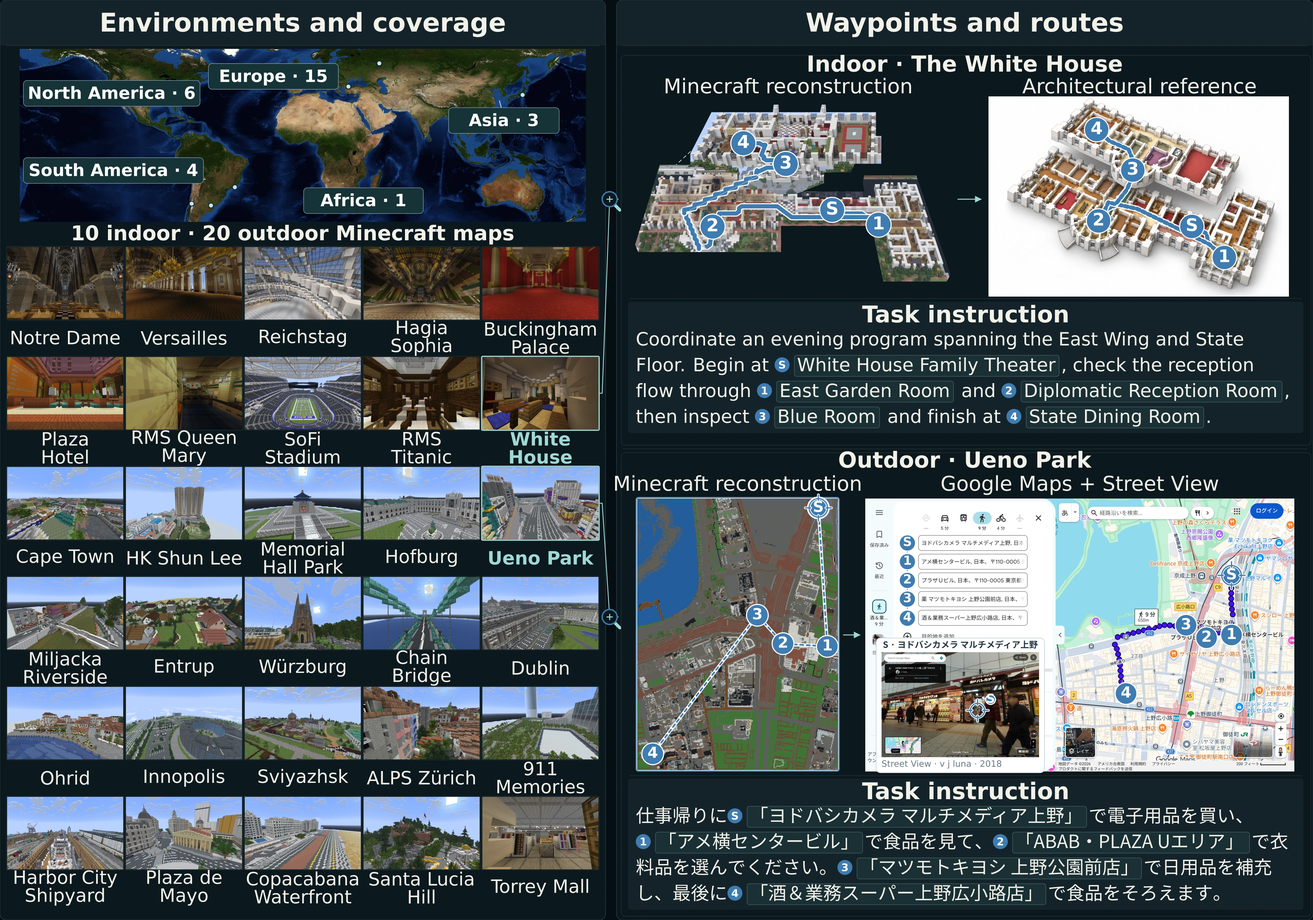
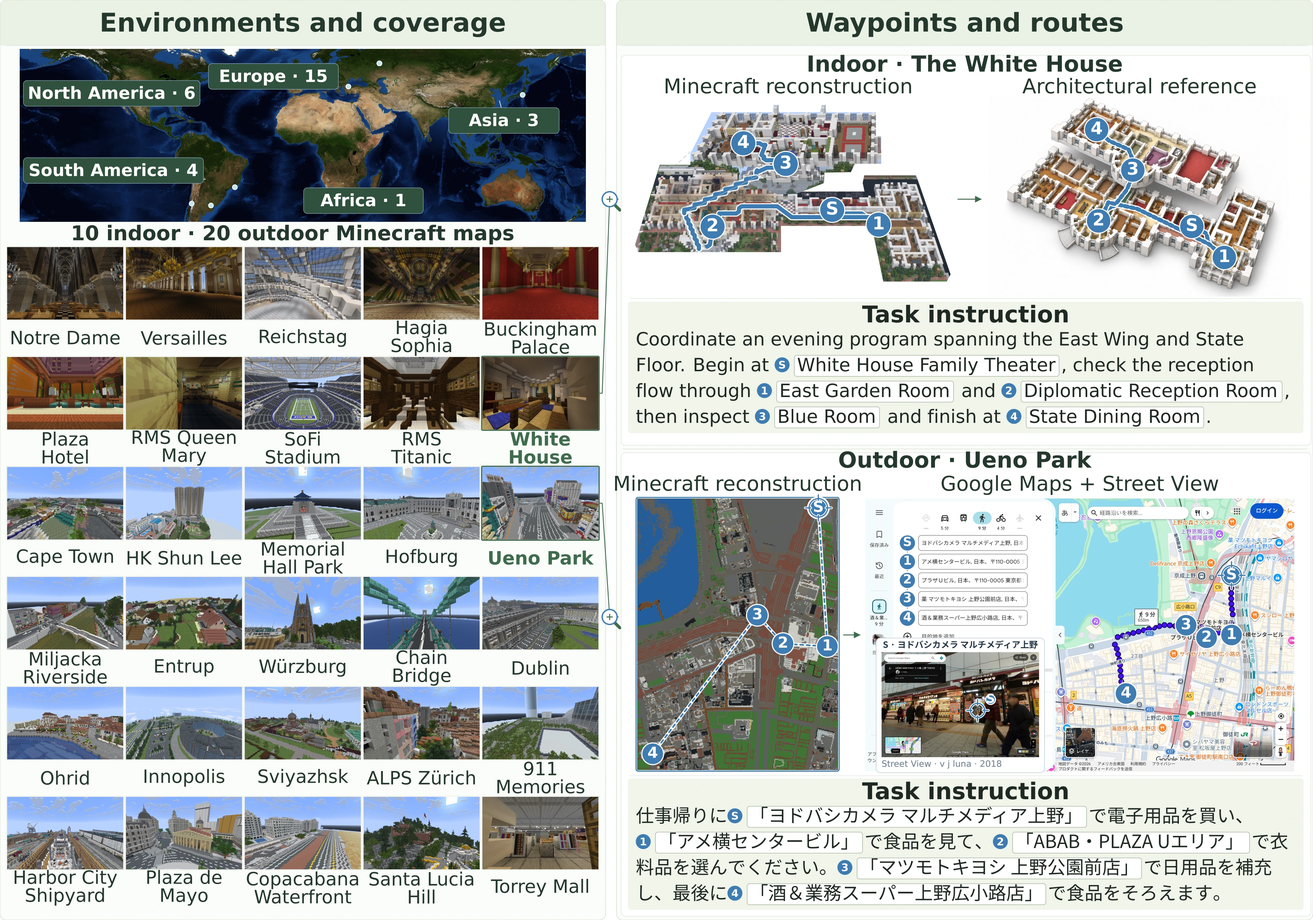
Restore white and green presentation while retaining enlarged framework

diff --git a/styles.css b/styles.css
@@ -1612,147 +1612,13 @@ body.paper-layout{--serif:var(--sans);--paper:#fbfcfa;--ink:#202923;--muted:#5e6
 .paper-layout .results-definitions>.metric-notes{margin-top:8px}
 .paper-layout .results-definitions[open]{padding-bottom:8px}
 
-/* Dark palette informed by the author's EmbodiedSWE reference. Native media keep their colors. */
-body.paper-layout.dark-layout{color-scheme:dark;--paper:#060e12;--ink:#f3f1e9;--muted:#b5c5c4;--line:#26393e;--green:#9ed9d6;--accent:#9ed9d6;--panel:#0c181d;--panel-raised:#14242a;--selected:#153337;--on-accent:#07191b;background:var(--paper);color:var(--ink)}
-.paper-layout.dark-layout ::selection{background:#2b6262;color:#fff}
-.paper-layout.dark-layout :focus-visible{outline:2px solid var(--green);outline-offset:4px}
-.paper-layout.dark-layout .site-header{background:#060e12f2;border-color:var(--line)}
-.paper-layout.dark-layout #navigation,.paper-layout.dark-layout #navigation.is-open{background:var(--paper)}
-.paper-layout.dark-layout .brand,.paper-layout.dark-layout .opening-description,.paper-layout.dark-layout .opening h1{color:var(--ink)}
-.paper-layout.dark-layout .brand-dot,.paper-layout.dark-layout .opening h1>span,.paper-layout.dark-layout .section-number,.paper-layout.dark-layout .opening .hero-heading>.eyebrow{color:var(--green)}
-.paper-layout.dark-layout .status-dot{background:var(--green);box-shadow:0 0 0 4px #9ed9d613}
-.paper-layout.dark-layout .opening-action-row:first-child>a{background:var(--panel);border-color:#385055;color:var(--ink)}
-.paper-layout.dark-layout .opening-action-row:first-child>.opening-primary{background:var(--green);border-color:var(--green);color:var(--on-accent)}
-.paper-layout.dark-layout .opening-actions .opening-action-row:last-child>a{color:var(--muted)}
-.paper-layout.dark-layout .opening-actions a:hover{color:var(--green);border-color:var(--green)}
-.paper-layout.dark-layout .opening-actions .opening-primary:hover{background:#b2e3de;color:var(--on-accent)}
-.paper-layout.dark-layout .menu-toggle,.paper-layout.dark-layout button,.paper-layout.dark-layout select{border-color:var(--line)}
-.paper-layout.dark-layout .film-player{border-color:var(--line);box-shadow:0 18px 60px #0004}
-.paper-layout.dark-layout .video-start{background:#0c181deb;border-color:#637e80;color:var(--ink)}
-.paper-layout.dark-layout .film-chapter-panel,.paper-layout.dark-layout .film-chapter-panel button,.paper-layout.dark-layout .film-note,.paper-layout.dark-layout .text-link{color:var(--muted);border-color:var(--line)}
-.paper-layout.dark-layout #film-chapters button[aria-pressed=true],.paper-layout.dark-layout #film-chapters button:hover{color:var(--green);background:var(--selected)}
-.paper-layout.dark-layout #results{--paper:#060e12;--line:#26393e;background:var(--paper);border-color:var(--line)}
-.paper-layout.dark-layout .table-scroll{background:var(--panel);border-color:var(--line)}
-.paper-layout.dark-layout #results thead{background:var(--panel-raised)}
-.paper-layout.dark-layout #results th,.paper-layout.dark-layout #results td{color:var(--ink);border-color:var(--line)}
-.paper-layout.dark-layout #results th button,.paper-layout.dark-layout #results th{color:var(--muted)}
-.paper-layout.dark-layout #results th[aria-sort=ascending] button,.paper-layout.dark-layout #results th[aria-sort=descending] button,.paper-layout.dark-layout #results .model-name{color:var(--ink)}
-.paper-layout.dark-layout #results tr.leading{background:#10272b}
-.paper-layout.dark-layout #results tbody tr:hover{background:#15292f}
-.paper-layout.dark-layout #results tr.leading .model-name,.paper-layout.dark-layout #results tr.leading .score-value{color:var(--green)}
-.paper-layout.dark-layout #results .model-effort,.paper-layout.dark-layout #results .small-note{color:var(--muted)}
-.paper-layout.dark-layout .score-bar{background:#2a4146}.paper-layout.dark-layout .score-bar i{background:#78a9a7}.paper-layout.dark-layout tr.leading .score-bar i{background:var(--green)}
-.paper-layout.dark-layout .metric-notes h3{color:var(--ink)}
-.paper-layout.dark-layout .results-definitions,.paper-layout.dark-layout .metric-notes article,.paper-layout.dark-layout .results-source{border-color:var(--line)}
-.paper-layout.dark-layout .segmented{background:var(--panel-raised);border-color:var(--line)}
-.paper-layout.dark-layout .segmented button{color:var(--muted);background:transparent}
-.paper-layout.dark-layout .segmented button[aria-pressed=true]{background:var(--selected);color:var(--green);box-shadow:inset 0 0 0 1px #3d6668}
-.paper-layout.dark-layout .segmented button>span{background:#24393e;color:var(--muted)}
-.paper-layout.dark-layout .opening .journey-contract{background:var(--panel);border-color:var(--line)}
-.paper-layout.dark-layout .opening .contract-stop,.paper-layout.dark-layout .contract-map-heading{color:var(--ink)}
-.paper-layout.dark-layout .contract-number{background:var(--panel-raised);border-color:#4b6769;color:var(--green)}
-.paper-layout.dark-layout .contract-destinations::before,.paper-layout.dark-layout .contract-stop::before{border-color:#385559}
-.paper-layout.dark-layout .opening .contract-stop.is-current{background:var(--selected);color:var(--green)}
-.paper-layout.dark-layout .contract-stop.is-visited .contract-number{background:var(--green);color:var(--on-accent)}
-.paper-layout.dark-layout .opening .contract-claim{background:var(--panel-raised);border-color:var(--line);color:var(--muted)}
-.paper-layout.dark-layout .opening .contract-claim.is-complete{background:var(--selected);color:var(--green);border-color:#47797a}
-.paper-layout.dark-layout .opening-stats{border-color:var(--line)}
-.paper-layout.dark-layout .full-trajectories{background:var(--panel);border-color:var(--line)}
-.paper-layout.dark-layout .trajectory-tabs button{background:var(--panel-raised);color:var(--ink);border-color:var(--line)}
-.paper-layout.dark-layout .trajectory-tabs button[aria-pressed=true]{background:var(--selected);border-color:#47797a;color:var(--green)}
-.paper-layout.dark-layout .trajectory-tabs small,.paper-layout.dark-layout .trajectory-tabs button[aria-pressed=true] small{color:var(--muted)}
-.paper-layout.dark-layout .trajectory-setting{background:var(--panel-raised);color:var(--muted);border-color:var(--line)}
-.paper-layout.dark-layout .trajectory-stops{color:var(--muted);border-color:var(--line)}
-.paper-layout.dark-layout .trajectory-stops li>span{background:var(--panel-raised);border-color:#426164;color:var(--green)}
-.paper-layout.dark-layout .trajectory-run{background:var(--panel);border-color:var(--line)}
-.paper-layout.dark-layout .trajectory-run h4{color:var(--ink)}
-.paper-layout.dark-layout .trajectory-outcome{background:var(--panel-raised);color:var(--muted)}
-.paper-layout.dark-layout .trajectory-map{background:#101b20}
-.paper-layout.dark-layout .trajectory-run figcaption,.paper-layout.dark-layout .trajectory-controls,.paper-layout.dark-layout .trajectory-source{background:var(--panel);border-color:var(--line);color:var(--muted)}
-.paper-layout.dark-layout .trajectory-controls button,.paper-layout.dark-layout .trajectory-controls select{background:var(--panel-raised);color:var(--green);border-color:#3b5559}
-.paper-layout.dark-layout .trajectory-source summary,.paper-layout.dark-layout .trajectory-source blockquote{color:var(--muted)}
-.paper-layout.dark-layout .worlds-section,.paper-layout.dark-layout .terrain-unified{background:var(--paper);border-color:var(--line)}
-.paper-layout.dark-layout .world-summary,.paper-layout.dark-layout .world-bottom,.paper-layout.dark-layout .world-toolbar{border-color:var(--line)}
-.paper-layout.dark-layout .world-summary strong,.paper-layout.dark-layout .world-card h3,.paper-layout.dark-layout .terrain-unified .terrain-card-copy strong{color:var(--ink)}
-.paper-layout.dark-layout .world-card p,.paper-layout.dark-layout .terrain-unified .terrain-card-copy>span,.paper-layout.dark-layout .terrain-motion-bar p{color:var(--muted)}
-.paper-layout.dark-layout .world-photo,.paper-layout.dark-layout .terrain-visual{border-color:var(--line);background:var(--panel)}
-.paper-layout.dark-layout .search{background:var(--panel);border-color:var(--line);color:var(--muted)}
-.paper-layout.dark-layout .search input{color:var(--ink)}
-.paper-layout.dark-layout .search input::placeholder{color:#91a6a7}
-.paper-layout.dark-layout .button.outline,.paper-layout.dark-layout .terrain-motion-bar button{background:var(--panel);border-color:#3b5559;color:var(--green)}
-.paper-layout.dark-layout .terrain-loop-label,.paper-layout.dark-layout .terrain-pair-phase{background:#0c181de8;color:var(--ink);border-color:var(--line)}
-.paper-layout.dark-layout .interaction-recordings,.paper-layout.dark-layout .interaction-heading{border-color:var(--line)}
-.paper-layout.dark-layout .video-panel,.paper-layout.dark-layout .video-footer{background:var(--panel);border-color:var(--line);color:var(--muted)}
-.paper-layout.dark-layout .video-footer select{background:var(--panel-raised);border-color:#3b5559;color:var(--green)}
-.paper-layout.dark-layout .clip-tabs button{color:var(--muted);border-color:var(--line)}
-.paper-layout.dark-layout .clip-tabs button[aria-pressed=true]{color:var(--green);border-color:var(--green)}
-.paper-layout.dark-layout .clip-phases li{background:var(--panel-raised);color:var(--muted);border-color:var(--line)}
-.paper-layout.dark-layout .clip-phases li::before{color:var(--green)}
-.paper-layout.dark-layout .framework-figure,.paper-layout.dark-layout .framework-playbar{background:var(--panel);border-color:var(--line)}
-.paper-layout.dark-layout .framework-caption{background:var(--panel-raised);border-color:var(--line)}
-.paper-layout.dark-layout .framework-caption p,.paper-layout.dark-layout .framework-loop-label{color:var(--muted)}
-.paper-layout.dark-layout .framework-phase-number{color:var(--green)}
-.paper-layout.dark-layout .framework-steps button,.paper-layout.dark-layout #framework-play{color:var(--muted);border-color:#3b5559}
-.paper-layout.dark-layout .framework-steps button[aria-pressed=true]{background:var(--selected);color:var(--green);box-shadow:inset 0 -2px var(--green)}
-.paper-layout.dark-layout .framework-node[data-framework-node=world] .client-window{fill:#14242a;stroke:#49666a}
-.paper-layout.dark-layout .client-view-tab rect{fill:#14242a;stroke:#3b5559}
-.paper-layout.dark-layout .client-view-tab{color:var(--muted)}
-.paper-layout.dark-layout .client-view-tab[aria-pressed=true] rect{fill:#24545a}
-.paper-layout.dark-layout .client-view-tab[aria-pressed=true]{color:var(--ink)}
-.paper-layout.dark-layout .framework-node.is-active{filter:drop-shadow(0 0 8px #9ed9d626)}
-.paper-layout.dark-layout .framework-explanation,.paper-layout.dark-layout .framework-explanation article{border-color:var(--line)}
-.paper-layout.dark-layout .case-layout .case-menu button{background:var(--panel);border-color:var(--line);color:var(--ink)}
-.paper-layout.dark-layout .case-layout .case-menu button[aria-selected=true]{background:var(--selected);border-color:var(--green);color:var(--green)}
-.paper-layout.dark-layout .case-layout .case-menu button>span,.paper-layout.dark-layout .case-layout .case-menu small{color:var(--muted)}
-.paper-layout.dark-layout .case-layout .recovery-player,.paper-layout.dark-layout .case-layout .appendix-player{background:var(--panel);border-color:var(--line)}
-.paper-layout.dark-layout .route-card,.paper-layout.dark-layout .program-scene,.paper-layout.dark-layout .program-command{background:var(--panel-raised);border-color:var(--line)}
-.paper-layout.dark-layout .route-card h4{color:#e1a598}.paper-layout.dark-layout .route-recovered h4{color:var(--green)}
-.paper-layout.dark-layout .route-card header>span{color:#dca497}.paper-layout.dark-layout .route-recovered header>span{color:var(--green)}
-.paper-layout.dark-layout .route-span,.paper-layout.dark-layout .program-scene figcaption,.paper-layout.dark-layout .program-card-heading{border-color:var(--line);color:var(--muted)}
-.paper-layout.dark-layout .program-card-heading strong{color:var(--ink)}
-.paper-layout.dark-layout .recovery-controls,.paper-layout.dark-layout .appendix-timeline,.paper-layout.dark-layout .case-source-details,.paper-layout.dark-layout .case-scope{background:var(--panel);color:var(--muted);border-color:var(--line)}
-.paper-layout.dark-layout .recovery-controls button,.paper-layout.dark-layout .recovery-controls select,.paper-layout.dark-layout .appendix-timeline button{background:var(--panel-raised);color:var(--green);border-color:#3b5559}
-.paper-layout.dark-layout .appendix-timeline button[aria-pressed=true]{background:var(--selected);color:var(--ink)}
-.paper-layout.dark-layout .ascent-status,.paper-layout.dark-layout .grounding-phase,.paper-layout.dark-layout .estimated-target{background:var(--selected);color:var(--muted);border-color:var(--line)}
-.paper-layout.dark-layout .ascent-status strong,.paper-layout.dark-layout .grounding-phase h4,.paper-layout.dark-layout .estimated-target strong{color:var(--green)}
-.paper-layout.dark-layout .ascent-profile,.paper-layout.dark-layout .grounding-inspector,.paper-layout.dark-layout .equation-row,.paper-layout.dark-layout .scale-value,.paper-layout.dark-layout .coordinate-list>div{background:var(--panel-raised);border-color:var(--line);color:var(--muted)}
-.paper-layout.dark-layout .ascent-profile text{fill:var(--muted)}
-.paper-layout.dark-layout .equation-row strong,.paper-layout.dark-layout .scale-value strong,.paper-layout.dark-layout .coordinate-list dd{color:var(--ink)}
-.paper-layout.dark-layout .program-command h4,.paper-layout.dark-layout .program-command header,.paper-layout.dark-layout .command-context,.paper-layout.dark-layout .stair-landings,.paper-layout.dark-layout .loop-iterations{color:var(--muted)}
-.paper-layout.dark-layout .heading-sequence span,.paper-layout.dark-layout .loop-iterations span,.paper-layout.dark-layout .stair-landings span{background:var(--panel);border-color:var(--line);color:var(--muted)}
-.paper-layout.dark-layout .program-command.is-active,.paper-layout.dark-layout .loop-iterations span.is-active,.paper-layout.dark-layout .stair-landings span.is-current{background:var(--selected);border-color:var(--green);color:var(--green)}
-.paper-layout.dark-layout .program-command pre,.paper-layout.dark-layout .grounding-inspector pre{background:#081115;color:#d0e0d3;border-color:var(--line)}
-.paper-layout.dark-layout .citation-block{background:var(--panel);border-color:var(--line)}
-.paper-layout.dark-layout .citation-toolbar{border-color:var(--line)}
-.paper-layout.dark-layout #copy-citation{background:var(--panel-raised);color:var(--green);border-color:#3b5559}
-.paper-layout.dark-layout footer{border-color:var(--line);color:var(--muted)}
-.paper-layout.dark-layout dialog{background:var(--panel);color:var(--ink);border:1px solid #3b5559}
-.paper-layout.dark-layout .dialog-header{border-color:var(--line)}
-.paper-layout.dark-layout #close-dialog{background:var(--panel-raised);color:var(--ink);border-color:var(--line)}
-.paper-layout.dark-layout input[type=range]{accent-color:var(--green)}
+/* White and green presentation; keep the enlarged diagram readable on tablets. */
+body.paper-layout{color-scheme:light;--paper:#fff;background:var(--paper);color:var(--ink)}
+.paper-layout .site-header{background:#fffffff5}
+.paper-layout #film-chapters button>span,.paper-layout .framework-loop-label,.paper-layout .grounding-phase>span,.paper-layout .stair-landings,.paper-layout .trajectory-source>p,.paper-layout .trajectory-source summary>span{color:var(--muted)}
+.paper-layout .framework-phase-number,.paper-layout .heading-sequence b{color:#526c4c}
+.paper-layout .loop-iterations span:not(.current){color:#665b3c}
 @media(max-width:1100px){
- .paper-layout.dark-layout .framework-figure .framework-desktop{display:none}
- .paper-layout.dark-layout .framework-figure .framework-mobile{display:block;max-width:480px;margin-inline:auto}
+ .paper-layout .framework-figure .framework-desktop{display:none}
+ .paper-layout .framework-figure .framework-mobile{display:block;max-width:480px;margin-inline:auto}
 }
-
-.paper-layout.dark-layout .flow-edge.is-active{stroke:var(--green)}
-.paper-layout.dark-layout .trajectory-run-summary,.paper-layout.dark-layout .trajectory-run-current,.paper-layout.dark-layout .trajectory-source>p,.paper-layout.dark-layout .trajectory-source summary>span{color:var(--muted)}
-.paper-layout.dark-layout .trajectory-controls #trajectory-play{background:var(--selected);color:var(--green);border-color:#47797a}
-.paper-layout.dark-layout .skip-link{color:var(--on-accent)}
-.paper-layout.dark-layout .section-heading:not(.results-heading) .section-number,.paper-layout.dark-layout .section-heading.results-heading .section-number{color:#8ea6a8}
-.paper-layout.dark-layout .opening .contract-claim strong,.paper-layout.dark-layout .opening .contract-claim code,.paper-layout.dark-layout .opening .contract-claim .contract-check{color:var(--muted)}
-.paper-layout.dark-layout .opening .contract-claim.is-complete strong,.paper-layout.dark-layout .opening .contract-claim.is-complete code,.paper-layout.dark-layout .opening .contract-claim.is-complete .contract-check{color:var(--green)}
-.paper-layout.dark-layout .world-summary>div{background:var(--panel)}
-.paper-layout.dark-layout .terrain-open{background:#0c181deb;color:var(--green)}
-.paper-layout.dark-layout .case-layout .case-menu button[aria-selected=true]>span,.paper-layout.dark-layout .case-layout .case-menu button[aria-selected=true]>small{color:var(--muted)}
-.paper-layout.dark-layout #recovery .appendix-player,.paper-layout.dark-layout .execution-observation{background:var(--panel)}
-.paper-layout.dark-layout .grounding-phase>span,.paper-layout.dark-layout .replay-explanation{color:var(--muted)}
-.paper-layout.dark-layout .program-command-cards article{background:var(--panel-raised);border-color:var(--line);border-left-color:#47797a}
-.paper-layout.dark-layout .program-command-cards article.current{background:var(--selected);border-left-color:var(--green)}
-.paper-layout.dark-layout .program-command-cards article:nth-child(2).current{background:#292b22;border-left-color:#d6c18e}
-.paper-layout.dark-layout .program-command-cards pre{color:#d0e0d3}
-.paper-layout.dark-layout .heading-sequence b,.paper-layout.dark-layout .equation-row>span{color:#d6c18e}
-.paper-layout.dark-layout .heading-sequence .repeat-count{color:#d6c18e}
-.paper-layout.dark-layout .loop-iterations .current,.paper-layout.dark-layout .loop-iterations .current.complete{background:#d6c18e;color:#07191b;border-color:#d6c18e}
-.paper-layout.dark-layout .loop-iterations .complete{color:#d6c18e;border-color:#827650}
-.paper-layout.dark-layout .paper-overview-image{background:var(--paper)}

diff --git a/index.html b/index.html
@@ -6,14 +6,14 @@
   <meta name="description" content="Mine Odyssey: Benchmarking Spatial Agentic Intelligence in the Wild. 180 tasks in Minecraft reconstructions of real-world locations.">
   <meta name="robots" content="index,follow">
   <link rel="canonical" href="https://mine-odyssey.github.io/">
-  <meta name="theme-color" content="#060e12">
+  <meta name="theme-color" content="#ffffff">
   <title data-paper="title">Mine Odyssey: Benchmarking Spatial Agentic Intelligence in the Wild</title>
-  <link rel="icon" href="favicon.svg?v=task-figure-20261008" type="image/svg+xml">
-  <link rel="stylesheet" href="styles.css?v=task-figure-20261008">
-  <script src="data/benchmark.js?v=task-figure-20261008" defer></script>
-  <script src="app.js?v=task-figure-20261008" defer></script>
+  <link rel="icon" href="favicon.svg?v=white-green-20261008" type="image/svg+xml">
+  <link rel="stylesheet" href="styles.css?v=white-green-20261008">
+  <script src="data/benchmark.js?v=white-green-20261008" defer></script>
+  <script src="app.js?v=white-green-20261008" defer></script>
 </head>
-<body class="research-layout refined-layout paper-layout dark-layout">
+<body class="research-layout refined-layout paper-layout">
   <a class="skip-link" href="#main">Skip to content</a>
   <header class="site-header">
     <a class="brand" href="#top" aria-label="Mine Odyssey home"><svg viewBox="0 0 32 32" aria-hidden="true"><path d="M16 2 29 9.5v13L16 30 3 22.5v-13Z"/><path d="m3 9.5 13 7.5 13-7.5M16 17v13M9.5 5.8l13 7.5v13"/></svg><span>Mine Odyssey<span class="brand-dot">.</span></span></a>
@@ -41,11 +41,11 @@
     <section class="section shell opening task-format-section" id="task-format" aria-labelledby="task-format-title">
         <div class="section-heading"><div><p class="eyebrow section-number" aria-hidden="true">02</p><h2 id="task-format-title">Task format</h2></div></div>
       <figure class="paper-overview" aria-labelledby="overview-caption">
-        <a class="paper-overview-image" href="assets/overview-figure-1-full.webp?v=dark-20261008" target="_blank" rel="noopener" aria-label="Enlarge Figure 1: environments and task construction">
-          <picture><source media="(max-width: 760px)" srcset="assets/overview-figure-1-environments.webp?v=dark-20261008" width="1784" height="2711"><img src="assets/overview-figure-1-full.webp?v=dark-20261008" width="3868" height="2711" loading="lazy" decoding="async" alt="Figure 1: thirty Minecraft reconstructions across five continents, with White House and Ueno Park examples connecting reference locations to ordered task waypoints."></picture>
-          <img class="paper-overview-mobile" src="assets/overview-figure-1-tasks.webp?v=dark-20261008" width="2052" height="2711" loading="lazy" decoding="async" alt="Indoor White House and outdoor Ueno Park task construction. Original instructions accompany numbered waypoints in Minecraft and their real-world references.">
+        <a class="paper-overview-image" href="assets/overview-figure-1-full.webp?v=white-green-20261008" target="_blank" rel="noopener" aria-label="Enlarge Figure 1: environments and task construction">
+          <picture><source media="(max-width: 760px)" srcset="assets/overview-figure-1-environments.webp?v=white-green-20261008" width="1784" height="2711"><img src="assets/overview-figure-1-full.webp?v=white-green-20261008" width="3868" height="2711" loading="lazy" decoding="async" alt="Figure 1: thirty Minecraft reconstructions across five continents, with White House and Ueno Park examples connecting reference locations to ordered task waypoints."></picture>
+          <img class="paper-overview-mobile" src="assets/overview-figure-1-tasks.webp?v=white-green-20261008" width="2052" height="2711" loading="lazy" decoding="async" alt="Indoor White House and outdoor Ueno Park task construction. Original instructions accompany numbered waypoints in Minecraft and their real-world references.">
         </a>
-        <figcaption id="overview-caption"><strong>Environments and task construction.</strong><a href="assets/overview-figure-1-full.webp?v=dark-20261008" target="_blank" rel="noopener">View full size <span aria-hidden="true">↗</span></a><p>S marks the start; numbered markers and dashed lines show visit order.</p></figcaption>
+        <figcaption id="overview-caption"><strong>Environments and task construction.</strong><a href="assets/overview-figure-1-full.webp?v=white-green-20261008" target="_blank" rel="noopener">View full size <span aria-hidden="true">↗</span></a><p>S marks the start; numbered markers and dashed lines show visit order.</p></figcaption>
       </figure>
       <aside class="opening-task" aria-label="Animated task example"><div class="journey-contract"><div class="contract-heading"><p class="eyebrow">A task in Harbor City</p></div>
           <p class="contract-instruction" id="contract-instruction"></p>

diff --git a/app.js b/app.js
@@ -544,9 +544,8 @@
       text(245,624,'Verifier feedback',19,'#82723e');
     const nodes=mobile?node('agent',45,44,270,230,true)+node('bash',45,330,270,285,true)+node('world',45,675,270,299,true)+node('verifier',45,1085,270,157,true):
       node('agent',20,150,250,230)+node('bash',345,150,315,255)+node('world',750,105,400,382)+node('verifier',445,535,465,125);
-    const palette={'#294e3a':'#f3f1e9','#687b5b':'#b5c5c4','#789165':'#79b9b5','#fcfcf6':'#14242a','#fcfcf4':'#172c31','#c2ceb0':'#426166','#9daf84':'#8aabaa','#d8e2c9':'#203a3d','#b8c6ac':'#426166','#e0e9cf':'#153337','#243e34':'#081217','#4d6858':'#324f54','#f0ecd8':'#232b29','#b0a56c':'#6e7053','#fdfcf1':'#243938','#b3aa7c':'#85916e','#9a905d':'#bdba83','#638357':'#a4d3b0','#c0c6a5':'#8fa794','#756c40':'#d6c18e','#527345':'#a0c9ab','#82723e':'#d6c18e','#a79758':'#b4a86e','#aaba9b':'#426166','#e2e8da':'#14242a'};
-    const svg=`<svg class="framework-${id}" viewBox="0 0 ${w} ${h}" role="group" aria-labelledby="fw-${id}-title fw-${id}-desc"><title id="fw-${id}-title">Agent interaction and independent verification</title><desc id="fw-${id}-desc">The agent receives the task, screenshots and execution feedback. Bash runs mcapi through AgentBridge or xdo keyboard and mouse controls. The client shows an in-game presentation view or native map of Entrup. A separate verifier samples player positions at one hertz throughout execution and checks ordered arrivals and the completion claim. Moving dots illustrate information flow.</desc><defs><marker id="fw-${id}-arrow" viewBox="0 0 10 10" refX="9" refY="5" markerWidth="6" markerHeight="6" orient="auto-start-reverse"><path d="M0 1 9 5 0 9" fill="none" stroke="#789165" stroke-width="1.6"/></marker></defs>${paths}${nodes}<circle class="flow-packet" r="6" fill="#9ed9d6" stroke="#060e12" stroke-width="2" pointer-events="none"/><circle class="position-packet" r="4" fill="#d6c18e" pointer-events="none"/></svg>`;
-    return svg.replace(/#[0-9a-f]{6}\b/g,color=>palette[color]||color);
+    const svg=`<svg class="framework-${id}" viewBox="0 0 ${w} ${h}" role="group" aria-labelledby="fw-${id}-title fw-${id}-desc"><title id="fw-${id}-title">Agent interaction and independent verification</title><desc id="fw-${id}-desc">The agent receives the task, screenshots and execution feedback. Bash runs mcapi through AgentBridge or xdo keyboard and mouse controls. The client shows an in-game presentation view or native map of Entrup. A separate verifier samples player positions at one hertz throughout execution and checks ordered arrivals and the completion claim. Moving dots illustrate information flow.</desc><defs><marker id="fw-${id}-arrow" viewBox="0 0 10 10" refX="9" refY="5" markerWidth="6" markerHeight="6" orient="auto-start-reverse"><path d="M0 1 9 5 0 9" fill="none" stroke="#789165" stroke-width="1.6"/></marker></defs>${paths}${nodes}<circle class="flow-packet" r="6" fill="#527b5a" stroke="#ffffff" stroke-width="2" pointer-events="none"/><circle class="position-packet" r="4" fill="#a79758" pointer-events="none"/></svg>`;
+    return svg;
   }
   host.innerHTML=render(false)+render(true);
   function selectView(view){
